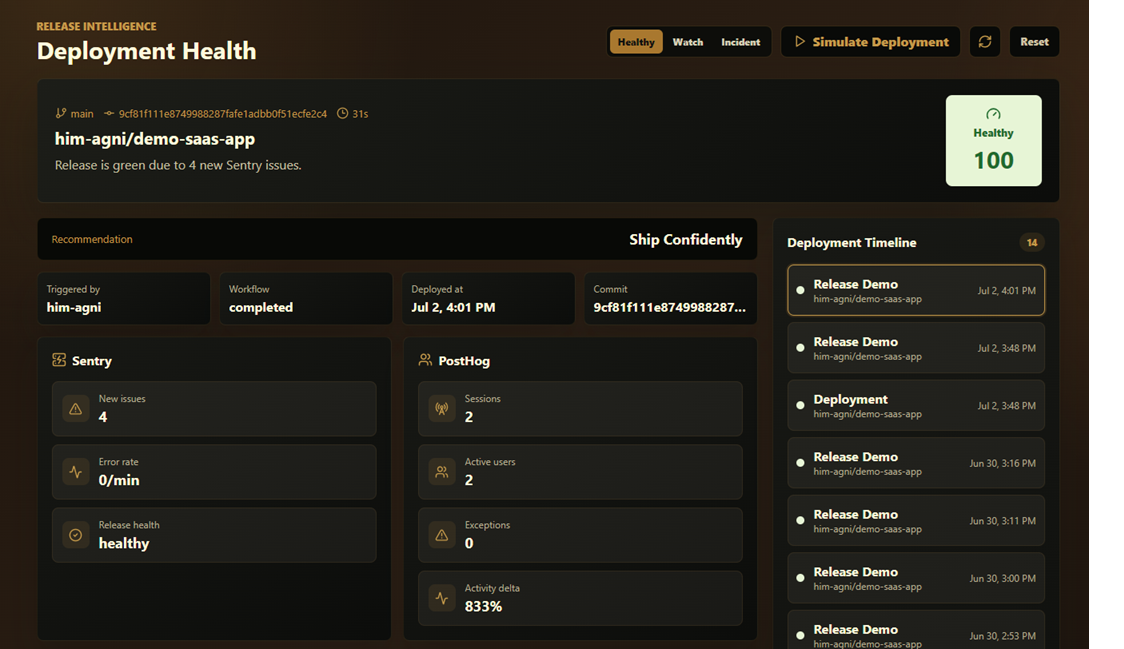
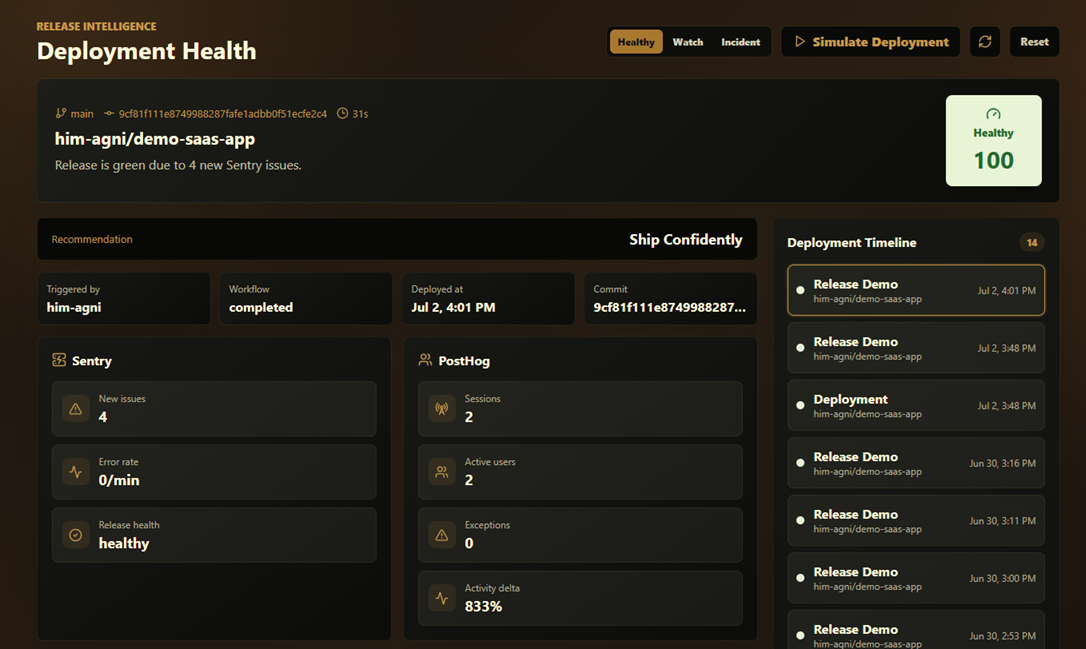
Update portfolio project assets and links

diff --git a/src/data/projectsData.js b/src/data/projectsData.js
@@ -1,5 +1,6 @@
 import saasIntegrationHubImage from '../assets/saas integration hub.png';
 import releaseIntelligenceImage from '../assets/release intelligence.png';
+import leadFormAutomationImage from '../assets/lead & form automation.png';
 
 const artifactsFor = (fileBaseName) => [
   {
@@ -92,8 +93,9 @@ export const projectsData = [
     verified: true,
     description: 'An automation-focused lead capture hub built to streamline form submissions, routing, and follow-up workflows for business teams.',
     longDescription: 'A webhook-driven lead pipeline that takes a form submission and reliably fans it out to a CRM, team chat, and spreadsheet log — with per-destination retry so one vendor outage never loses a lead.',
-    image: 'https://opengraph.githubassets.com/portfolio-lead-automation/him-agni/lead-form-automation-hub',
+    image: leadFormAutomationImage,
     tags: ['React', 'Node.js / Express', 'MongoDB', 'Tally', 'Airtable', 'Discord', 'Google Sheets'],
+    liveLink: 'https://client-lime-alpha.vercel.app',
     repoLink: 'https://github.com/him-agni/lead-form-automation-hub',
     problem: 'Marketing and RevOps teams capture leads through forms but rely on brittle chains — often Zapier or manual copy-paste — to move each lead into their CRM, team chat, and spreadsheet log. When one link in the chain silently fails, hot leads get lost and no one notices until a customer complains.',
     solutionIntro: 'A signed-webhook lead pipeline that verifies Tally submissions, then fans them out in parallel to Airtable, Discord, and Google Sheets — with per-destination retry so one vendor outage never takes the whole flow down, and a live dashboard so every submission is traceable.',
